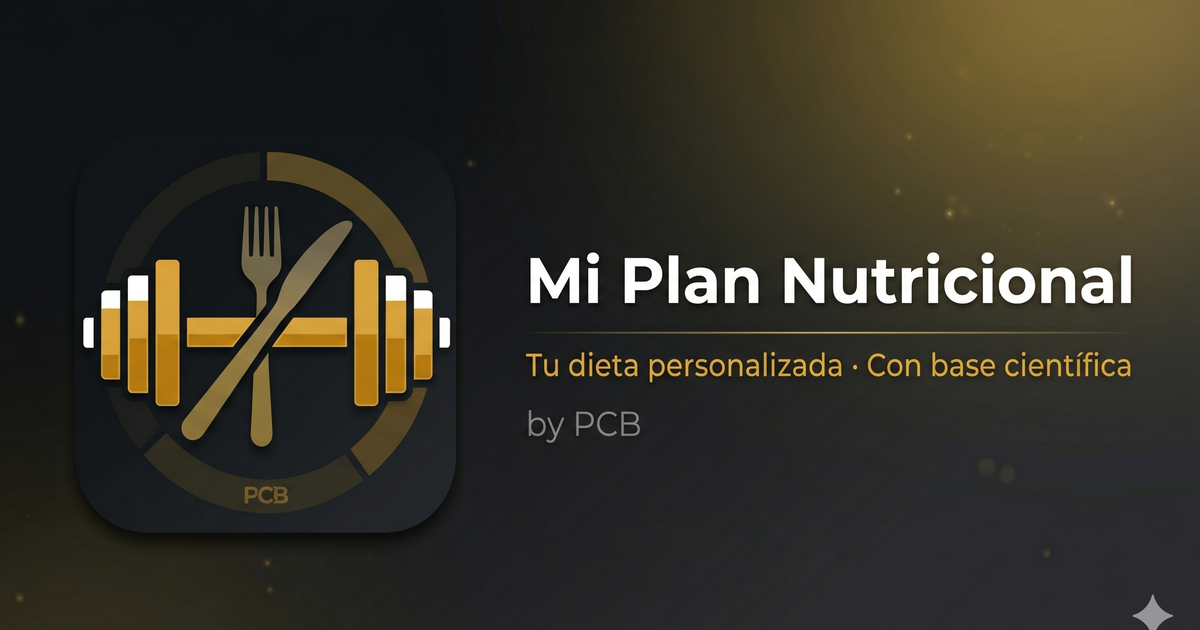
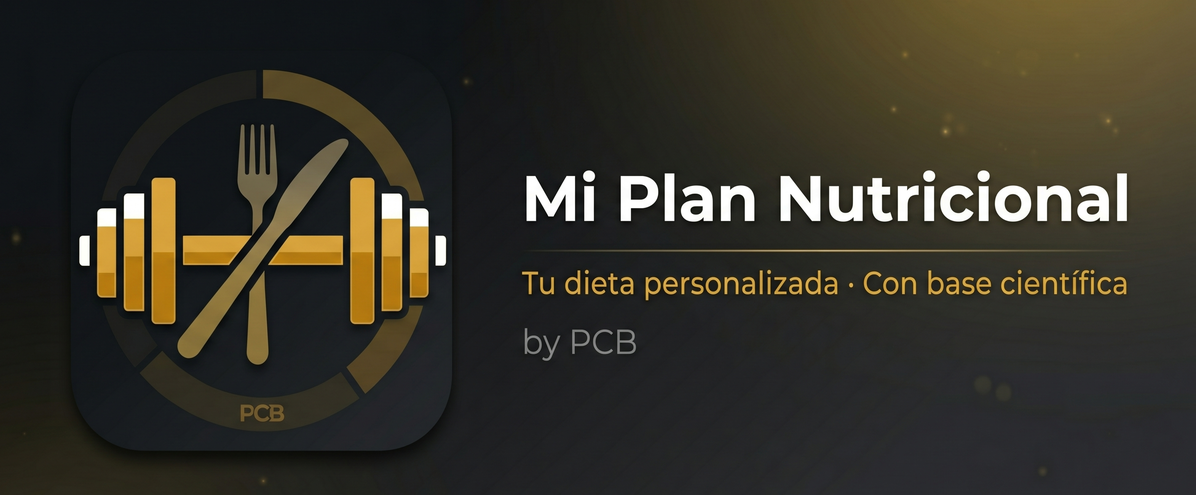
feat: suplementos con dosis exactas según productos ESN
- Omega-3 ESN: 3 cáps/día → 1200mg EPA + 900mg DHA (triglicérido natural)
- Magnesio ESN Complex: 3 cáps/día (complejo 4-en-1 alta biodisponibilidad)
- Zinc ESN: 1 cáp/día → 25mg zinc alta biodisponibilidad
- Actualizado tooltips con info del producto específico

diff --git a/js/app.js b/js/app.js
@@ -46,9 +46,9 @@ var EXTRAS_OIL_ML = 15; // 1 cucharada sopera AOVE por comida (oleocantal antiin
 
 var supplements = [
     {icon:'💪',title:'Creatina monohidrato',desc:'5g/día (todos los días, entrenes o no)',tip:'La ISSN recomienda 3-5g/día crónicos para mantener saturación intramuscular. Mejora resíntesis de ATP y fuerza. No es necesaria fase de carga (Jäger et al. 2017).'},
-    {icon:'🐟',title:'Omega 3 (EPA+DHA)',desc:'2g EPA+DHA/día (≥4 cápsulas concentrado)',tip:'Dosis de 2-3g/día EPA+DHA atenúan DOMS y reducen inflamación. Una cápsula estándar 1000mg solo aporta ~300mg EPA+DHA; se necesitan 4-6 cápsulas concentradas (ISSN 2024).'},
-    {icon:'🧲',title:'Magnesio (citrato/bisglicinato)',desc:'400mg antes de dormir',tip:'Cofactor del ATP. Formas orgánicas (citrato, bisglicinato) tienen alta biodisponibilidad vs óxido. Mejora calidad del sueño profundo y reduce lactato (Dominguez et al. 2025).'},
-    {icon:'⚡',title:'Zinc',desc:'15mg/día antes de dormir',tip:'Apoyo inmunitario. 8-15mg/día es seguro. >100mg/día es tóxico y baja HDL. El ZMA NO ha demostrado elevar testosterona en personas sin deficiencias (ISSN).'},
+    {icon:'🐟',title:'Omega 3 (ESN Omega-3)',desc:'3 cápsulas/día → 1200mg EPA + 900mg DHA',tip:'Cada porción (3 caps) aporta 1200mg EPA + 900mg DHA en forma triglicérido natural. Analizado para metales pesados. Dosis de 2-3g/día EPA+DHA atenúan DOMS y reducen inflamación (ISSN 2024).'},
+    {icon:'🧲',title:'Magnesio (ESN Magnesium Complex)',desc:'3 cápsulas/día antes de dormir (complejo 4-en-1)',tip:'Complejo 4-en-1 de alta biodisponibilidad. Porción = 3 cápsulas. Cofactor del ATP, mejora calidad del sueño profundo y reduce lactato. Formas orgánicas superiores a óxido (Dominguez et al. 2025).'},
+    {icon:'⚡',title:'Zinc (ESN Zinc)',desc:'1 cápsula/día → 25mg zinc antes de dormir',tip:'25mg de zinc de alta biodisponibilidad por cápsula. Apoyo inmunitario y recuperación. Dentro del rango seguro (8-40mg/día). >100mg/día es tóxico. No tomar con calcio o hierro (ISSN).'},
     {icon:'😴',title:'Melatonina',desc:'6-10mg pre-sueño',tip:'Mejora sprint anaeróbico al día siguiente, acelera recuperación y reduce marcadores de daño muscular (CK, LDH). Sin efecto si se toma pre-ejercicio (Guo et al. 2026).'}
 ];
 